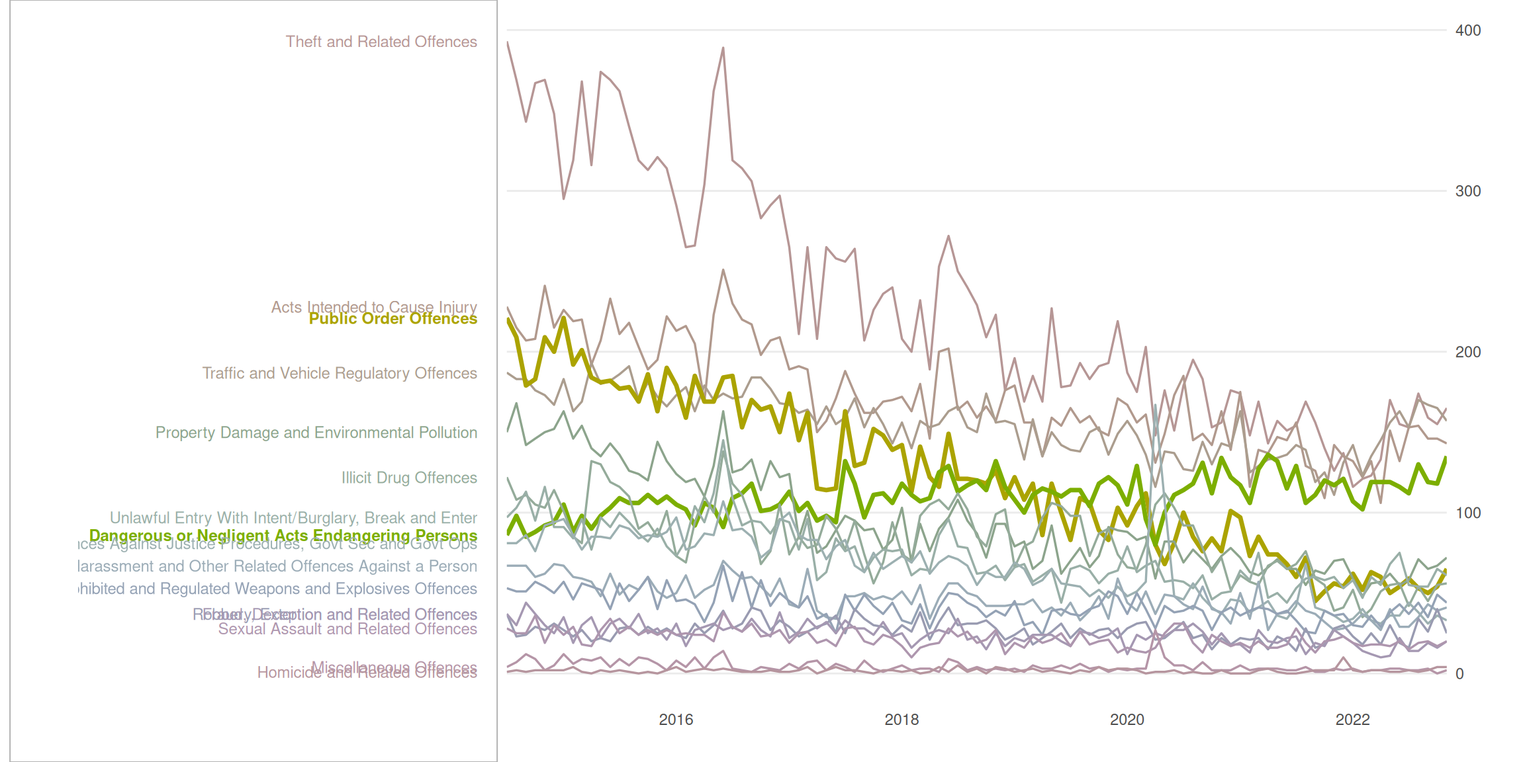
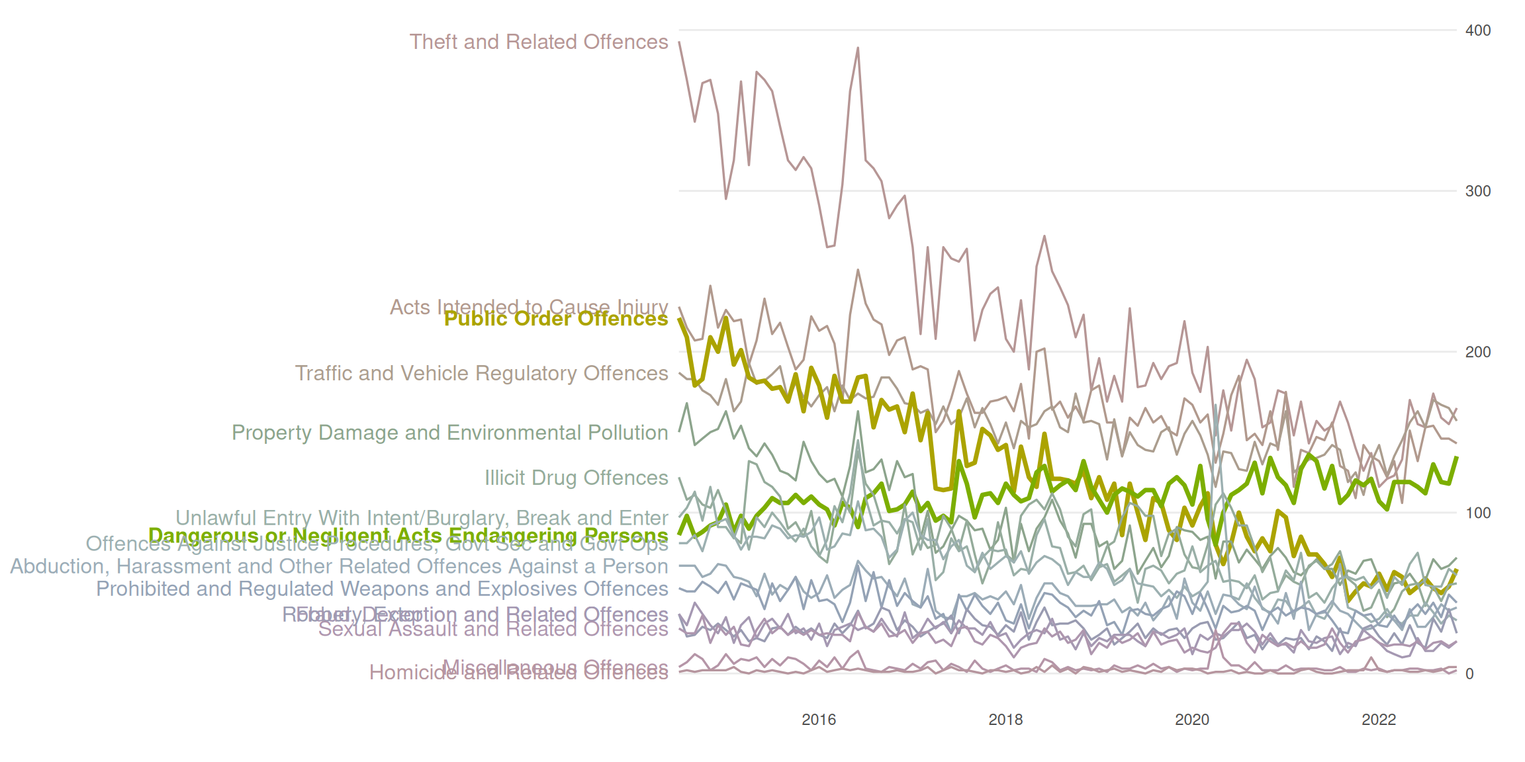
Built site for gh-pages

diff --git a/labs/lab4_answer.html b/labs/lab4_answer.html
@@ -7,7 +7,7 @@
 <meta name="viewport" content="width=device-width, initial-scale=1.0, user-scalable=yes">
 
 <meta name="author" content="Mathias L. Jeppesen">
-<meta name="dcterms.date" content="2025-04-05">
+<meta name="dcterms.date" content="2025-04-10">
 
 <title>Lab4 - Visual Perception – STATS 787: Data Visualisation lab assignments</title>
 <style>
@@ -277,7 +277,7 @@ pre > code.sourceCode > span > a:first-child::before { text-decoration: underlin
     <div>
     <div class="quarto-title-meta-heading">Published</div>
     <div class="quarto-title-meta-contents">
-      <p class="date">April 5, 2025</p>
+      <p class="date">April 10, 2025</p>
     </div>
   </div>
   
@@ -625,98 +625,84 @@ pre > code.sourceCode > span > a:first-child::before { text-decoration: underlin
 </section>
 <section id="challenge-7" class="level1">
 <h1>Challenge 7</h1>
-<p>I didn’t quite succeed with the challenge…</p>
-<p>Below is code that creates a <code>textGrob</code> from the longest string and takes the <code>grobWidth</code> to get the width of relevant viewports. Then I create 2 ggplots, 1 showing the actual lines and 1 using <code>grid_group</code> in a plot without points to obtain a plot only of the text. The reason why I thought of using <code>grid_group</code> in an empty plot was to obtain the y-coordinates of the first values in the line plots.</p>
-<p>The approach almost works, but I do have some problems with the text being cut to the left. I have checked that my viewport goes all the way to the left edge (see grey grid.rect in the picture), and I cannot figure out why the text is being cut.</p>
+<p>To create the plot, I</p>
+<ol type="1">
+<li>Create a <code>textGrob</code> from the longest string and take the <code>grobWidth</code> to get the width needed to display the text.</li>
+<li>Create a ggplot inside a viewport corresponding to all the width minus the width needed to display the text minus 2 mm to give some space</li>
+<li>The ggplot is created by making the line plot and using <code>gggrid::grid_group</code> to label the crime types.</li>
+</ol>
+<ul>
+<li>Enable writing the text “outside” the plot with <code>coord_cartesian(clip = "off")</code></li>
+</ul>
 <div class="cell">
 <div class="sourceCode cell-code" id="cb17"><pre class="sourceCode r code-with-copy"><code class="sourceCode r"><span id="cb17-1"><a href="#cb17-1" aria-hidden="true" tabindex="-1"></a>youthMonthType<span class="sc">$</span>Var2noBreak <span class="ot">&lt;-</span> <span class="fu">factor</span>(</span>
 <span id="cb17-2"><a href="#cb17-2" aria-hidden="true" tabindex="-1"></a>  youthMonthType<span class="sc">$</span>Var2, <span class="at">levels =</span> typeLabels, <span class="at">labels =</span> typeLevels</span>
 <span id="cb17-3"><a href="#cb17-3" aria-hidden="true" tabindex="-1"></a>)</span>
 <span id="cb17-4"><a href="#cb17-4" aria-hidden="true" tabindex="-1"></a></span>
-<span id="cb17-5"><a href="#cb17-5" aria-hidden="true" tabindex="-1"></a>fontsize <span class="ot">&lt;-</span> <span class="dv">9</span></span>
-<span id="cb17-6"><a href="#cb17-6" aria-hidden="true" tabindex="-1"></a></span>
-<span id="cb17-7"><a href="#cb17-7" aria-hidden="true" tabindex="-1"></a>longest_str_ind <span class="ot">&lt;-</span> <span class="fu">which.max</span>(stringr<span class="sc">::</span><span class="fu">str_width</span>(youthMonthType<span class="sc">$</span>Var2noBreak))</span>
-<span id="cb17-8"><a href="#cb17-8" aria-hidden="true" tabindex="-1"></a>longest_str <span class="ot">&lt;-</span> <span class="fu">as.character</span>(youthMonthType<span class="sc">$</span>Var2noBreak[longest_str_ind])</span>
-<span id="cb17-9"><a href="#cb17-9" aria-hidden="true" tabindex="-1"></a>dummy_grob <span class="ot">&lt;-</span> grid<span class="sc">::</span><span class="fu">textGrob</span>(longest_str, <span class="at">gp =</span> grid<span class="sc">::</span><span class="fu">gpar</span>(<span class="at">fontsize =</span> fontsize))</span>
-<span id="cb17-10"><a href="#cb17-10" aria-hidden="true" tabindex="-1"></a>text_width <span class="ot">&lt;-</span> grid<span class="sc">::</span><span class="fu">grobWidth</span>(dummy_grob)</span>
-<span id="cb17-11"><a href="#cb17-11" aria-hidden="true" tabindex="-1"></a></span>
-<span id="cb17-12"><a href="#cb17-12" aria-hidden="true" tabindex="-1"></a>monthLabels <span class="ot">&lt;-</span> <span class="fu">levels</span>(youthMonthType<span class="sc">$</span>Var2noBreak)</span>
-<span id="cb17-13"><a href="#cb17-13" aria-hidden="true" tabindex="-1"></a>highlightCats <span class="ot">&lt;-</span> <span class="fu">grepl</span>(<span class="st">"^(Public|Dangerous)"</span>, monthLabels)</span>
-<span id="cb17-14"><a href="#cb17-14" aria-hidden="true" tabindex="-1"></a>colors <span class="ot">&lt;-</span> scales<span class="sc">::</span><span class="fu">pal_hue</span>()(<span class="fu">length</span>(monthLabels))</span>
-<span id="cb17-15"><a href="#cb17-15" aria-hidden="true" tabindex="-1"></a>colors[<span class="sc">!</span>highlightCats] <span class="ot">&lt;-</span> <span class="fu">sapply</span>(</span>
-<span id="cb17-16"><a href="#cb17-16" aria-hidden="true" tabindex="-1"></a>  colors[<span class="sc">!</span>highlightCats], colorspace<span class="sc">::</span>desaturate, <span class="at">amount =</span> <span class="fl">0.8</span></span>
-<span id="cb17-17"><a href="#cb17-17" aria-hidden="true" tabindex="-1"></a>)</span>
-<span id="cb17-18"><a href="#cb17-18" aria-hidden="true" tabindex="-1"></a></span>
-<span id="cb17-19"><a href="#cb17-19" aria-hidden="true" tabindex="-1"></a>lwds <span class="ot">&lt;-</span> <span class="fu">setNames</span>(<span class="fu">rep</span>(<span class="fl">0.6</span>, <span class="fu">length</span>(monthLabels)), monthLabels)</span>
-<span id="cb17-20"><a href="#cb17-20" aria-hidden="true" tabindex="-1"></a>lwds[highlightCats] <span class="ot">&lt;-</span> <span class="fl">1.2</span></span>
-<span id="cb17-21"><a href="#cb17-21" aria-hidden="true" tabindex="-1"></a></span>
-<span id="cb17-22"><a href="#cb17-22" aria-hidden="true" tabindex="-1"></a>add_label <span class="ot">&lt;-</span> <span class="cf">function</span>(data, coords) {</span>
-<span id="cb17-23"><a href="#cb17-23" aria-hidden="true" tabindex="-1"></a>  grid<span class="sc">::</span><span class="fu">textGrob</span>(</span>
-<span id="cb17-24"><a href="#cb17-24" aria-hidden="true" tabindex="-1"></a>    data<span class="sc">$</span>label,</span>
-<span id="cb17-25"><a href="#cb17-25" aria-hidden="true" tabindex="-1"></a>    <span class="at">x =</span> grid<span class="sc">::</span><span class="fu">unit</span>(<span class="dv">1</span>, <span class="st">"npc"</span>) <span class="sc">-</span> grid<span class="sc">::</span><span class="fu">unit</span>(<span class="dv">2</span>, <span class="st">"mm"</span>),</span>
-<span id="cb17-26"><a href="#cb17-26" aria-hidden="true" tabindex="-1"></a>    <span class="at">y =</span> grid<span class="sc">::</span><span class="fu">unit</span>(coords<span class="sc">$</span>y[<span class="dv">1</span>], <span class="st">"npc"</span>),</span>
-<span id="cb17-27"><a href="#cb17-27" aria-hidden="true" tabindex="-1"></a>    <span class="at">gp =</span> grid<span class="sc">::</span><span class="fu">gpar</span>(<span class="at">col =</span> data<span class="sc">$</span>colour,</span>
-<span id="cb17-28"><a href="#cb17-28" aria-hidden="true" tabindex="-1"></a>                    <span class="at">fontsize =</span> fontsize,</span>
-<span id="cb17-29"><a href="#cb17-29" aria-hidden="true" tabindex="-1"></a>                    <span class="at">fontface =</span> <span class="fu">ifelse</span>(data<span class="sc">$</span>highlight, <span class="st">"bold"</span>, <span class="st">"plain"</span>)),</span>
-<span id="cb17-30"><a href="#cb17-30" aria-hidden="true" tabindex="-1"></a>    <span class="at">hjust =</span> <span class="dv">1</span></span>
-<span id="cb17-31"><a href="#cb17-31" aria-hidden="true" tabindex="-1"></a>  )</span>
-<span id="cb17-32"><a href="#cb17-32" aria-hidden="true" tabindex="-1"></a>}</span>
-<span id="cb17-33"><a href="#cb17-33" aria-hidden="true" tabindex="-1"></a>p <span class="ot">&lt;-</span> <span class="fu">ggplot</span>(youthMonthType,</span>
-<span id="cb17-34"><a href="#cb17-34" aria-hidden="true" tabindex="-1"></a>            <span class="fu">aes</span>(<span class="at">x =</span> Month, <span class="at">y =</span> Freq,</span>
-<span id="cb17-35"><a href="#cb17-35" aria-hidden="true" tabindex="-1"></a>                <span class="at">color =</span> Var2noBreak, <span class="at">group =</span> Var2noBreak, <span class="at">linewidth =</span> Var2noBreak)) <span class="sc">+</span></span>
-<span id="cb17-36"><a href="#cb17-36" aria-hidden="true" tabindex="-1"></a>  <span class="fu">geom_line</span>(<span class="at">show.legend =</span> <span class="cn">FALSE</span>) <span class="sc">+</span></span>
-<span id="cb17-37"><a href="#cb17-37" aria-hidden="true" tabindex="-1"></a>  <span class="fu">scale_color_manual</span>(<span class="at">values =</span> colors) <span class="sc">+</span></span>
-<span id="cb17-38"><a href="#cb17-38" aria-hidden="true" tabindex="-1"></a>  <span class="fu">scale_linewidth_manual</span>(<span class="at">values =</span> lwds) <span class="sc">+</span></span>
-<span id="cb17-39"><a href="#cb17-39" aria-hidden="true" tabindex="-1"></a>  <span class="fu">scale_y_continuous</span>(<span class="at">position =</span> <span class="st">"right"</span>) <span class="sc">+</span></span>
-<span id="cb17-40"><a href="#cb17-40" aria-hidden="true" tabindex="-1"></a>  <span class="fu">scale_x_date</span>(<span class="at">expand =</span> <span class="fu">expansion</span>(<span class="dv">0</span>, <span class="dv">0</span>)) <span class="sc">+</span> </span>
-<span id="cb17-41"><a href="#cb17-41" aria-hidden="true" tabindex="-1"></a>  <span class="fu">labs</span>(<span class="at">x =</span> <span class="st">""</span>, <span class="at">y =</span> <span class="st">""</span>) <span class="sc">+</span></span>
-<span id="cb17-42"><a href="#cb17-42" aria-hidden="true" tabindex="-1"></a>  <span class="fu">theme_minimal</span>() <span class="sc">+</span></span>
-<span id="cb17-43"><a href="#cb17-43" aria-hidden="true" tabindex="-1"></a>  <span class="fu">theme</span>(<span class="at">axis.ticks.y =</span> <span class="fu">element_blank</span>(),</span>
-<span id="cb17-44"><a href="#cb17-44" aria-hidden="true" tabindex="-1"></a>        <span class="at">panel.grid.major.x =</span> <span class="fu">element_blank</span>(),</span>
-<span id="cb17-45"><a href="#cb17-45" aria-hidden="true" tabindex="-1"></a>        <span class="at">panel.grid.minor.x =</span> <span class="fu">element_blank</span>(),</span>
-<span id="cb17-46"><a href="#cb17-46" aria-hidden="true" tabindex="-1"></a>        <span class="at">panel.grid.minor.y =</span> <span class="fu">element_blank</span>()</span>
-<span id="cb17-47"><a href="#cb17-47" aria-hidden="true" tabindex="-1"></a>  )</span>
-<span id="cb17-48"><a href="#cb17-48" aria-hidden="true" tabindex="-1"></a>p_text <span class="ot">&lt;-</span> <span class="fu">ggplot</span>(youthMonthType,</span>
-<span id="cb17-49"><a href="#cb17-49" aria-hidden="true" tabindex="-1"></a>               <span class="fu">aes</span>(<span class="at">x =</span> Month, <span class="at">y =</span> Freq,</span>
-<span id="cb17-50"><a href="#cb17-50" aria-hidden="true" tabindex="-1"></a>                   <span class="at">color =</span> Var2noBreak, <span class="at">group =</span> Var2noBreak)) <span class="sc">+</span></span>
-<span id="cb17-51"><a href="#cb17-51" aria-hidden="true" tabindex="-1"></a>  gggrid<span class="sc">::</span><span class="fu">grid_group</span>(add_label,</span>
-<span id="cb17-52"><a href="#cb17-52" aria-hidden="true" tabindex="-1"></a>                     <span class="fu">aes</span>(<span class="at">label =</span> Var2noBreak,</span>
-<span id="cb17-53"><a href="#cb17-53" aria-hidden="true" tabindex="-1"></a>                         <span class="at">highlight =</span> highlightCat)) <span class="sc">+</span></span>
-<span id="cb17-54"><a href="#cb17-54" aria-hidden="true" tabindex="-1"></a>  <span class="fu">scale_color_manual</span>(<span class="at">values =</span> colors) <span class="sc">+</span></span>
-<span id="cb17-55"><a href="#cb17-55" aria-hidden="true" tabindex="-1"></a>  <span class="fu">theme_minimal</span>() <span class="sc">+</span></span>
-<span id="cb17-56"><a href="#cb17-56" aria-hidden="true" tabindex="-1"></a>  <span class="fu">theme</span>(<span class="at">axis.ticks =</span> <span class="fu">element_blank</span>(),</span>
-<span id="cb17-57"><a href="#cb17-57" aria-hidden="true" tabindex="-1"></a>        <span class="at">axis.text =</span> <span class="fu">element_text</span>(<span class="at">colour =</span> <span class="st">"white"</span>),</span>
-<span id="cb17-58"><a href="#cb17-58" aria-hidden="true" tabindex="-1"></a>        <span class="at">axis.title =</span> <span class="fu">element_text</span>(<span class="at">colour =</span> <span class="st">"white"</span>),</span>
-<span id="cb17-59"><a href="#cb17-59" aria-hidden="true" tabindex="-1"></a>        <span class="at">panel.grid.major.x =</span> <span class="fu">element_blank</span>(),</span>
-<span id="cb17-60"><a href="#cb17-60" aria-hidden="true" tabindex="-1"></a>        <span class="at">panel.grid.minor.x =</span> <span class="fu">element_blank</span>(),</span>
-<span id="cb17-61"><a href="#cb17-61" aria-hidden="true" tabindex="-1"></a>        <span class="at">panel.grid.major.y =</span> <span class="fu">element_blank</span>(),</span>
-<span id="cb17-62"><a href="#cb17-62" aria-hidden="true" tabindex="-1"></a>        <span class="at">panel.grid.minor.y =</span> <span class="fu">element_blank</span>())</span>
-<span id="cb17-63"><a href="#cb17-63" aria-hidden="true" tabindex="-1"></a></span>
-<span id="cb17-64"><a href="#cb17-64" aria-hidden="true" tabindex="-1"></a>create_plot <span class="ot">&lt;-</span> <span class="cf">function</span>() {</span>
-<span id="cb17-65"><a href="#cb17-65" aria-hidden="true" tabindex="-1"></a>  grid<span class="sc">::</span><span class="fu">grid.newpage</span>()</span>
-<span id="cb17-66"><a href="#cb17-66" aria-hidden="true" tabindex="-1"></a>  grid<span class="sc">::</span><span class="fu">pushViewport</span>(</span>
-<span id="cb17-67"><a href="#cb17-67" aria-hidden="true" tabindex="-1"></a>    grid<span class="sc">::</span><span class="fu">viewport</span>(</span>
-<span id="cb17-68"><a href="#cb17-68" aria-hidden="true" tabindex="-1"></a>      <span class="at">width =</span> grid<span class="sc">::</span><span class="fu">unit</span>(<span class="dv">1</span>, <span class="st">"npc"</span>) <span class="sc">-</span> text_width <span class="sc">-</span> grid<span class="sc">::</span><span class="fu">unit</span>(<span class="dv">2</span><span class="sc">*</span><span class="dv">2</span>, <span class="st">"mm"</span>),</span>
-<span id="cb17-69"><a href="#cb17-69" aria-hidden="true" tabindex="-1"></a>      <span class="at">x =</span> grid<span class="sc">::</span><span class="fu">unit</span>(<span class="dv">1</span>, <span class="st">"npc"</span>) <span class="sc">-</span> grid<span class="sc">::</span><span class="fu">unit</span>(<span class="dv">2</span>, <span class="st">"mm"</span>),</span>
-<span id="cb17-70"><a href="#cb17-70" aria-hidden="true" tabindex="-1"></a>      <span class="at">just =</span> <span class="fu">c</span>(<span class="dv">1</span>, .<span class="dv">5</span>)</span>
-<span id="cb17-71"><a href="#cb17-71" aria-hidden="true" tabindex="-1"></a>    )</span>
-<span id="cb17-72"><a href="#cb17-72" aria-hidden="true" tabindex="-1"></a>  )</span>
-<span id="cb17-73"><a href="#cb17-73" aria-hidden="true" tabindex="-1"></a>  <span class="fu">print</span>(p, <span class="at">newpage =</span> <span class="cn">FALSE</span>)</span>
-<span id="cb17-74"><a href="#cb17-74" aria-hidden="true" tabindex="-1"></a>  grid<span class="sc">::</span><span class="fu">upViewport</span>()</span>
-<span id="cb17-75"><a href="#cb17-75" aria-hidden="true" tabindex="-1"></a>  grid<span class="sc">::</span><span class="fu">pushViewport</span>(</span>
-<span id="cb17-76"><a href="#cb17-76" aria-hidden="true" tabindex="-1"></a>    grid<span class="sc">::</span><span class="fu">viewport</span>(</span>
-<span id="cb17-77"><a href="#cb17-77" aria-hidden="true" tabindex="-1"></a>      <span class="at">width =</span> text_width,</span>
-<span id="cb17-78"><a href="#cb17-78" aria-hidden="true" tabindex="-1"></a>      <span class="at">x =</span> grid<span class="sc">::</span><span class="fu">unit</span>(<span class="dv">2</span>, <span class="st">"mm"</span>),</span>
-<span id="cb17-79"><a href="#cb17-79" aria-hidden="true" tabindex="-1"></a>      <span class="at">just =</span> <span class="fu">c</span>(<span class="dv">0</span>, .<span class="dv">5</span>)</span>
-<span id="cb17-80"><a href="#cb17-80" aria-hidden="true" tabindex="-1"></a>    )</span>
-<span id="cb17-81"><a href="#cb17-81" aria-hidden="true" tabindex="-1"></a>  )</span>
-<span id="cb17-82"><a href="#cb17-82" aria-hidden="true" tabindex="-1"></a>  grid<span class="sc">::</span><span class="fu">grid.rect</span>(<span class="at">gp =</span> grid<span class="sc">::</span><span class="fu">gpar</span>(<span class="at">col =</span> <span class="st">"grey70"</span>))</span>
-<span id="cb17-83"><a href="#cb17-83" aria-hidden="true" tabindex="-1"></a>  <span class="fu">print</span>(p_text, <span class="at">newpage =</span> <span class="cn">FALSE</span>)</span>
-<span id="cb17-84"><a href="#cb17-84" aria-hidden="true" tabindex="-1"></a>  grid<span class="sc">::</span><span class="fu">upViewport</span>()</span>
-<span id="cb17-85"><a href="#cb17-85" aria-hidden="true" tabindex="-1"></a>  <span class="fu">return</span>(<span class="fu">invisible</span>())</span>
-<span id="cb17-86"><a href="#cb17-86" aria-hidden="true" tabindex="-1"></a>}</span>
-<span id="cb17-87"><a href="#cb17-87" aria-hidden="true" tabindex="-1"></a></span>
-<span id="cb17-88"><a href="#cb17-88" aria-hidden="true" tabindex="-1"></a><span class="fu">create_plot</span>()</span></code><button title="Copy to Clipboard" class="code-copy-button"><i class="bi"></i></button></pre></div>
+<span id="cb17-5"><a href="#cb17-5" aria-hidden="true" tabindex="-1"></a>create_plot <span class="ot">&lt;-</span> <span class="cf">function</span>(</span>
+<span id="cb17-6"><a href="#cb17-6" aria-hidden="true" tabindex="-1"></a>    <span class="at">label.fontsize =</span> <span class="dv">12</span>,</span>
+<span id="cb17-7"><a href="#cb17-7" aria-hidden="true" tabindex="-1"></a>    <span class="at">lwds =</span> <span class="fu">c</span>(<span class="fl">0.6</span>, <span class="fl">1.2</span>)) {</span>
+<span id="cb17-8"><a href="#cb17-8" aria-hidden="true" tabindex="-1"></a>  </span>
+<span id="cb17-9"><a href="#cb17-9" aria-hidden="true" tabindex="-1"></a>  longest_str_ind <span class="ot">&lt;-</span> <span class="fu">which.max</span>(stringr<span class="sc">::</span><span class="fu">str_width</span>(youthMonthType<span class="sc">$</span>Var2noBreak))</span>
+<span id="cb17-10"><a href="#cb17-10" aria-hidden="true" tabindex="-1"></a>  longest_str <span class="ot">&lt;-</span> <span class="fu">as.character</span>(youthMonthType<span class="sc">$</span>Var2noBreak[longest_str_ind])</span>
+<span id="cb17-11"><a href="#cb17-11" aria-hidden="true" tabindex="-1"></a>  dummy_grob <span class="ot">&lt;-</span> grid<span class="sc">::</span><span class="fu">textGrob</span>(longest_str, <span class="at">gp =</span> grid<span class="sc">::</span><span class="fu">gpar</span>(<span class="at">fontsize =</span> label.fontsize))</span>
+<span id="cb17-12"><a href="#cb17-12" aria-hidden="true" tabindex="-1"></a>  text_width <span class="ot">&lt;-</span> grid<span class="sc">::</span><span class="fu">grobWidth</span>(dummy_grob)</span>
+<span id="cb17-13"><a href="#cb17-13" aria-hidden="true" tabindex="-1"></a>  </span>
+<span id="cb17-14"><a href="#cb17-14" aria-hidden="true" tabindex="-1"></a>  monthLabels <span class="ot">&lt;-</span> <span class="fu">levels</span>(youthMonthType<span class="sc">$</span>Var2noBreak)</span>
+<span id="cb17-15"><a href="#cb17-15" aria-hidden="true" tabindex="-1"></a>  highlightCats <span class="ot">&lt;-</span> <span class="fu">grepl</span>(<span class="st">"^(Public|Dangerous)"</span>, monthLabels)</span>
+<span id="cb17-16"><a href="#cb17-16" aria-hidden="true" tabindex="-1"></a>  colors <span class="ot">&lt;-</span> scales<span class="sc">::</span><span class="fu">pal_hue</span>()(<span class="fu">length</span>(monthLabels))</span>
+<span id="cb17-17"><a href="#cb17-17" aria-hidden="true" tabindex="-1"></a>  colors[<span class="sc">!</span>highlightCats] <span class="ot">&lt;-</span> <span class="fu">sapply</span>(</span>
+<span id="cb17-18"><a href="#cb17-18" aria-hidden="true" tabindex="-1"></a>    colors[<span class="sc">!</span>highlightCats], colorspace<span class="sc">::</span>desaturate, <span class="at">amount =</span> <span class="fl">0.8</span></span>
+<span id="cb17-19"><a href="#cb17-19" aria-hidden="true" tabindex="-1"></a>  )</span>
+<span id="cb17-20"><a href="#cb17-20" aria-hidden="true" tabindex="-1"></a>  </span>
+<span id="cb17-21"><a href="#cb17-21" aria-hidden="true" tabindex="-1"></a>  lwds_vec <span class="ot">&lt;-</span> <span class="fu">setNames</span>(<span class="fu">rep</span>(lwds[<span class="dv">1</span>], <span class="fu">length</span>(monthLabels)), monthLabels)</span>
+<span id="cb17-22"><a href="#cb17-22" aria-hidden="true" tabindex="-1"></a>  lwds_vec[highlightCats] <span class="ot">&lt;-</span> lwds[<span class="dv">2</span>]</span>
+<span id="cb17-23"><a href="#cb17-23" aria-hidden="true" tabindex="-1"></a>  </span>
+<span id="cb17-24"><a href="#cb17-24" aria-hidden="true" tabindex="-1"></a>  add_label <span class="ot">&lt;-</span> <span class="cf">function</span>(data, coords) {</span>
+<span id="cb17-25"><a href="#cb17-25" aria-hidden="true" tabindex="-1"></a>    grid<span class="sc">::</span><span class="fu">textGrob</span>(</span>
+<span id="cb17-26"><a href="#cb17-26" aria-hidden="true" tabindex="-1"></a>      data<span class="sc">$</span>label,</span>
+<span id="cb17-27"><a href="#cb17-27" aria-hidden="true" tabindex="-1"></a>      <span class="at">x =</span> grid<span class="sc">::</span><span class="fu">unit</span>(<span class="dv">0</span>, <span class="st">"npc"</span>) <span class="sc">-</span> grid<span class="sc">::</span><span class="fu">unit</span>(<span class="dv">2</span>, <span class="st">"mm"</span>),</span>
+<span id="cb17-28"><a href="#cb17-28" aria-hidden="true" tabindex="-1"></a>      <span class="at">y =</span> grid<span class="sc">::</span><span class="fu">unit</span>(coords<span class="sc">$</span>y[<span class="dv">1</span>], <span class="st">"npc"</span>),</span>
+<span id="cb17-29"><a href="#cb17-29" aria-hidden="true" tabindex="-1"></a>      <span class="at">gp =</span> grid<span class="sc">::</span><span class="fu">gpar</span>(<span class="at">col =</span> data<span class="sc">$</span>colour,</span>
+<span id="cb17-30"><a href="#cb17-30" aria-hidden="true" tabindex="-1"></a>                      <span class="at">fontsize =</span> label.fontsize,</span>
+<span id="cb17-31"><a href="#cb17-31" aria-hidden="true" tabindex="-1"></a>                      <span class="at">fontface =</span> <span class="fu">ifelse</span>(data<span class="sc">$</span>highlight, <span class="st">"bold"</span>, <span class="st">"plain"</span>)),</span>
+<span id="cb17-32"><a href="#cb17-32" aria-hidden="true" tabindex="-1"></a>      <span class="at">hjust =</span> <span class="dv">1</span></span>
+<span id="cb17-33"><a href="#cb17-33" aria-hidden="true" tabindex="-1"></a>    )</span>
+<span id="cb17-34"><a href="#cb17-34" aria-hidden="true" tabindex="-1"></a>  }</span>
+<span id="cb17-35"><a href="#cb17-35" aria-hidden="true" tabindex="-1"></a>  p <span class="ot">&lt;-</span> <span class="fu">ggplot</span>(youthMonthType,</span>
+<span id="cb17-36"><a href="#cb17-36" aria-hidden="true" tabindex="-1"></a>              <span class="fu">aes</span>(<span class="at">x =</span> Month, <span class="at">y =</span> Freq,</span>
+<span id="cb17-37"><a href="#cb17-37" aria-hidden="true" tabindex="-1"></a>                  <span class="at">color =</span> Var2noBreak, <span class="at">group =</span> Var2noBreak, <span class="at">linewidth =</span> Var2noBreak)) <span class="sc">+</span></span>
+<span id="cb17-38"><a href="#cb17-38" aria-hidden="true" tabindex="-1"></a>    <span class="fu">geom_line</span>(<span class="at">show.legend =</span> <span class="cn">FALSE</span>) <span class="sc">+</span></span>
+<span id="cb17-39"><a href="#cb17-39" aria-hidden="true" tabindex="-1"></a>    <span class="fu">scale_color_manual</span>(<span class="at">values =</span> colors) <span class="sc">+</span></span>
+<span id="cb17-40"><a href="#cb17-40" aria-hidden="true" tabindex="-1"></a>    <span class="fu">scale_linewidth_manual</span>(<span class="at">values =</span> lwds_vec) <span class="sc">+</span></span>
+<span id="cb17-41"><a href="#cb17-41" aria-hidden="true" tabindex="-1"></a>    <span class="fu">scale_y_continuous</span>(<span class="at">position =</span> <span class="st">"right"</span>) <span class="sc">+</span></span>
+<span id="cb17-42"><a href="#cb17-42" aria-hidden="true" tabindex="-1"></a>    <span class="fu">scale_x_date</span>(<span class="at">expand =</span> <span class="fu">expansion</span>(<span class="dv">0</span>, <span class="dv">0</span>)) <span class="sc">+</span> </span>
+<span id="cb17-43"><a href="#cb17-43" aria-hidden="true" tabindex="-1"></a>    <span class="fu">labs</span>(<span class="at">x =</span> <span class="st">""</span>, <span class="at">y =</span> <span class="st">""</span>) <span class="sc">+</span></span>
+<span id="cb17-44"><a href="#cb17-44" aria-hidden="true" tabindex="-1"></a>    <span class="fu">theme_minimal</span>() <span class="sc">+</span></span>
+<span id="cb17-45"><a href="#cb17-45" aria-hidden="true" tabindex="-1"></a>    <span class="fu">theme</span>(<span class="at">axis.ticks.y =</span> <span class="fu">element_blank</span>(),</span>
+<span id="cb17-46"><a href="#cb17-46" aria-hidden="true" tabindex="-1"></a>          <span class="at">panel.grid.major.x =</span> <span class="fu">element_blank</span>(),</span>
+<span id="cb17-47"><a href="#cb17-47" aria-hidden="true" tabindex="-1"></a>          <span class="at">panel.grid.minor.x =</span> <span class="fu">element_blank</span>(),</span>
+<span id="cb17-48"><a href="#cb17-48" aria-hidden="true" tabindex="-1"></a>          <span class="at">panel.grid.minor.y =</span> <span class="fu">element_blank</span>()</span>
+<span id="cb17-49"><a href="#cb17-49" aria-hidden="true" tabindex="-1"></a>    ) <span class="sc">+</span></span>
+<span id="cb17-50"><a href="#cb17-50" aria-hidden="true" tabindex="-1"></a>    gggrid<span class="sc">::</span><span class="fu">grid_group</span>(add_label,</span>
+<span id="cb17-51"><a href="#cb17-51" aria-hidden="true" tabindex="-1"></a>                       <span class="fu">aes</span>(<span class="at">label =</span> Var2noBreak,</span>
+<span id="cb17-52"><a href="#cb17-52" aria-hidden="true" tabindex="-1"></a>                           <span class="at">highlight =</span> highlightCat)) <span class="sc">+</span></span>
+<span id="cb17-53"><a href="#cb17-53" aria-hidden="true" tabindex="-1"></a>    <span class="fu">coord_cartesian</span>(<span class="at">clip =</span> <span class="st">"off"</span>)</span>
+<span id="cb17-54"><a href="#cb17-54" aria-hidden="true" tabindex="-1"></a>  </span>
+<span id="cb17-55"><a href="#cb17-55" aria-hidden="true" tabindex="-1"></a>  grid<span class="sc">::</span><span class="fu">grid.newpage</span>()</span>
+<span id="cb17-56"><a href="#cb17-56" aria-hidden="true" tabindex="-1"></a>  grid<span class="sc">::</span><span class="fu">pushViewport</span>(</span>
+<span id="cb17-57"><a href="#cb17-57" aria-hidden="true" tabindex="-1"></a>    grid<span class="sc">::</span><span class="fu">viewport</span>(</span>
+<span id="cb17-58"><a href="#cb17-58" aria-hidden="true" tabindex="-1"></a>      <span class="at">width =</span> grid<span class="sc">::</span><span class="fu">unit</span>(<span class="dv">1</span>, <span class="st">"npc"</span>) <span class="sc">-</span> text_width <span class="sc">-</span> grid<span class="sc">::</span><span class="fu">unit</span>(<span class="dv">2</span>, <span class="st">"mm"</span>),</span>
+<span id="cb17-59"><a href="#cb17-59" aria-hidden="true" tabindex="-1"></a>      <span class="at">x =</span> grid<span class="sc">::</span><span class="fu">unit</span>(<span class="dv">1</span>, <span class="st">"npc"</span>),</span>
+<span id="cb17-60"><a href="#cb17-60" aria-hidden="true" tabindex="-1"></a>      <span class="at">just =</span> <span class="fu">c</span>(<span class="dv">1</span>, .<span class="dv">5</span>)</span>
+<span id="cb17-61"><a href="#cb17-61" aria-hidden="true" tabindex="-1"></a>    )</span>
+<span id="cb17-62"><a href="#cb17-62" aria-hidden="true" tabindex="-1"></a>  )</span>
+<span id="cb17-63"><a href="#cb17-63" aria-hidden="true" tabindex="-1"></a>  <span class="fu">print</span>(p, <span class="at">newpage =</span> <span class="cn">FALSE</span>)</span>
+<span id="cb17-64"><a href="#cb17-64" aria-hidden="true" tabindex="-1"></a>  grid<span class="sc">::</span><span class="fu">popViewport</span>()</span>
+<span id="cb17-65"><a href="#cb17-65" aria-hidden="true" tabindex="-1"></a>  <span class="fu">return</span>(<span class="fu">invisible</span>())</span>
+<span id="cb17-66"><a href="#cb17-66" aria-hidden="true" tabindex="-1"></a>}</span>
+<span id="cb17-67"><a href="#cb17-67" aria-hidden="true" tabindex="-1"></a></span>
+<span id="cb17-68"><a href="#cb17-68" aria-hidden="true" tabindex="-1"></a><span class="fu">create_plot</span>()</span></code><button title="Copy to Clipboard" class="code-copy-button"><i class="bi"></i></button></pre></div>
 <div class="cell-output-display">
 <div>
 <figure class="figure">

diff --git a/labs/lab3_answer.html b/labs/lab3_answer.html
@@ -7,7 +7,7 @@
 <meta name="viewport" content="width=device-width, initial-scale=1.0, user-scalable=yes">
 
 <meta name="author" content="Mathias L. Jeppesen">
-<meta name="dcterms.date" content="2025-04-05">
+<meta name="dcterms.date" content="2025-04-10">
 
 <title>Lab3 - Effective Data Visualisations – STATS 787: Data Visualisation lab assignments</title>
 <style>
@@ -262,7 +262,7 @@ pre > code.sourceCode > span > a:first-child::before { text-decoration: underlin
     <div>
     <div class="quarto-title-meta-heading">Published</div>
     <div class="quarto-title-meta-contents">
-      <p class="date">April 5, 2025</p>
+      <p class="date">April 10, 2025</p>
     </div>
   </div>
   

diff --git a/labs/lab2_answer.html b/labs/lab2_answer.html
@@ -7,7 +7,7 @@
 <meta name="viewport" content="width=device-width, initial-scale=1.0, user-scalable=yes">
 
 <meta name="author" content="Mathias L. Jeppesen">
-<meta name="dcterms.date" content="2025-04-05">
+<meta name="dcterms.date" content="2025-04-10">
 
 <title>Lab2 - The grid Graphics System – STATS 787: Data Visualisation lab assignments</title>
 <style>
@@ -269,7 +269,7 @@ pre > code.sourceCode > span > a:first-child::before { text-decoration: underlin
     <div>
     <div class="quarto-title-meta-heading">Published</div>
     <div class="quarto-title-meta-contents">
-      <p class="date">April 5, 2025</p>
+      <p class="date">April 10, 2025</p>
     </div>
   </div>
   

diff --git a/labs/lab1_answer.html b/labs/lab1_answer.html
@@ -7,7 +7,7 @@
 <meta name="viewport" content="width=device-width, initial-scale=1.0, user-scalable=yes">
 
 <meta name="author" content="Mathias L. Jeppesen">
-<meta name="dcterms.date" content="2025-04-05">
+<meta name="dcterms.date" content="2025-04-10">
 
 <title>Lab1 - Grammar of Graphics – STATS 787: Data Visualisation lab assignments</title>
 <style>
@@ -262,7 +262,7 @@ pre > code.sourceCode > span > a:first-child::before { text-decoration: underlin
     <div>
     <div class="quarto-title-meta-heading">Published</div>
     <div class="quarto-title-meta-contents">
-      <p class="date">April 5, 2025</p>
+      <p class="date">April 10, 2025</p>
     </div>
   </div>
   
